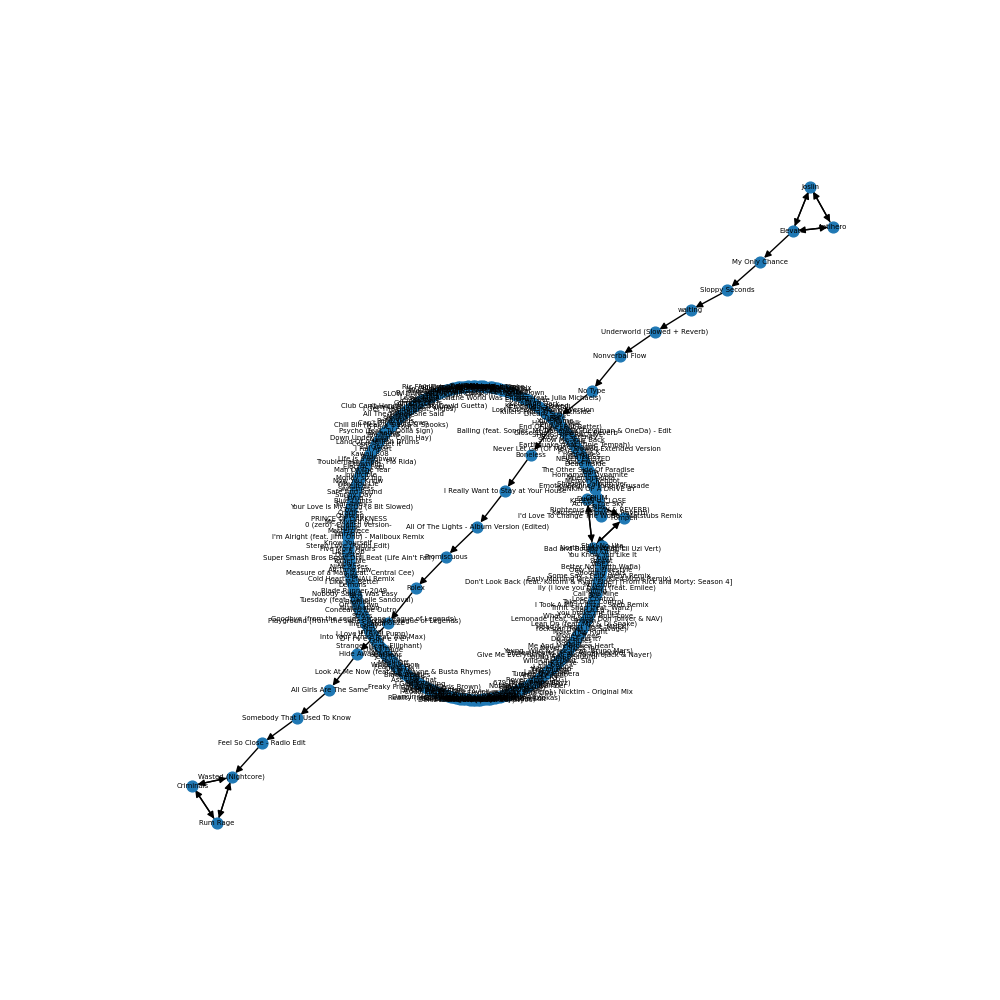
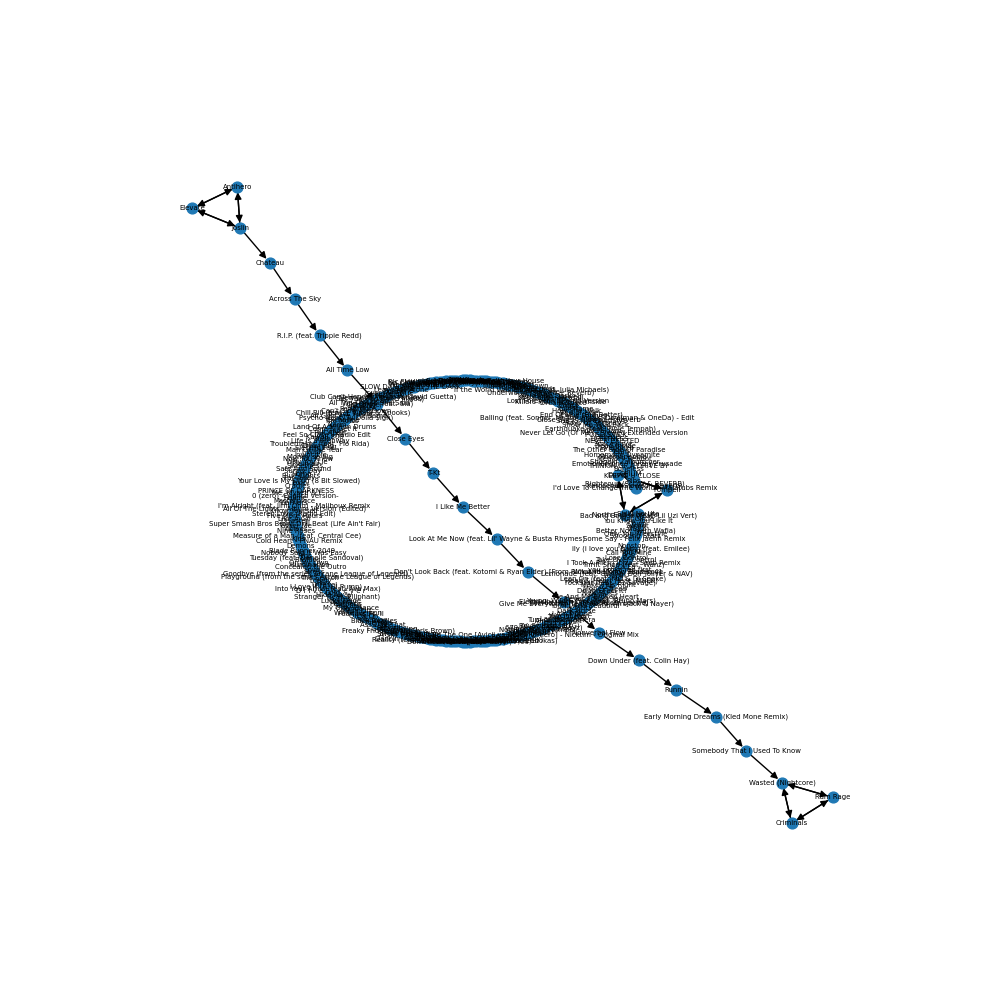
Returning both queue and model

diff --git a/mood-shifter-backend/index.js b/mood-shifter-backend/index.js
@@ -71,11 +71,10 @@ app.post('/getConfigPlaylist', async (req, res) => {
       method: "POST"
     })
     let response = await modelResp.json();
-    console.log("MODEL RESP, MOOD2MOOD: ", response)
+    console.log("MODEL RESP, MOOD2MOOD: ", response.queue)
+    console.log("MODEL RESP, model: ", response.model)
     res.send(response)
-
   }
-
 })
 
 app.post('/login', async function (req, res) {

diff --git a/mood-shifter-model/network.py b/mood-shifter-model/network.py
@@ -66,7 +66,6 @@ def createNewNetwork(likedSongs):
 
     return storeGraphJSON(G)
 
-
 def mood2mood(graph, fromMood, toMood, duration):
     G = None
     G = getGraphJSON(graph)
@@ -100,7 +99,7 @@ def mood2mood(graph, fromMood, toMood, duration):
     # print(generatedQueue)
     # print(len(generatedQueue))
 
-    return generatedQueue
+    return {"queue": generatedQueue, "model": storeGraphJSON(G)}
 
 def nodeCrawl(G, currentNode, times, toNodes, queue=None):
 
